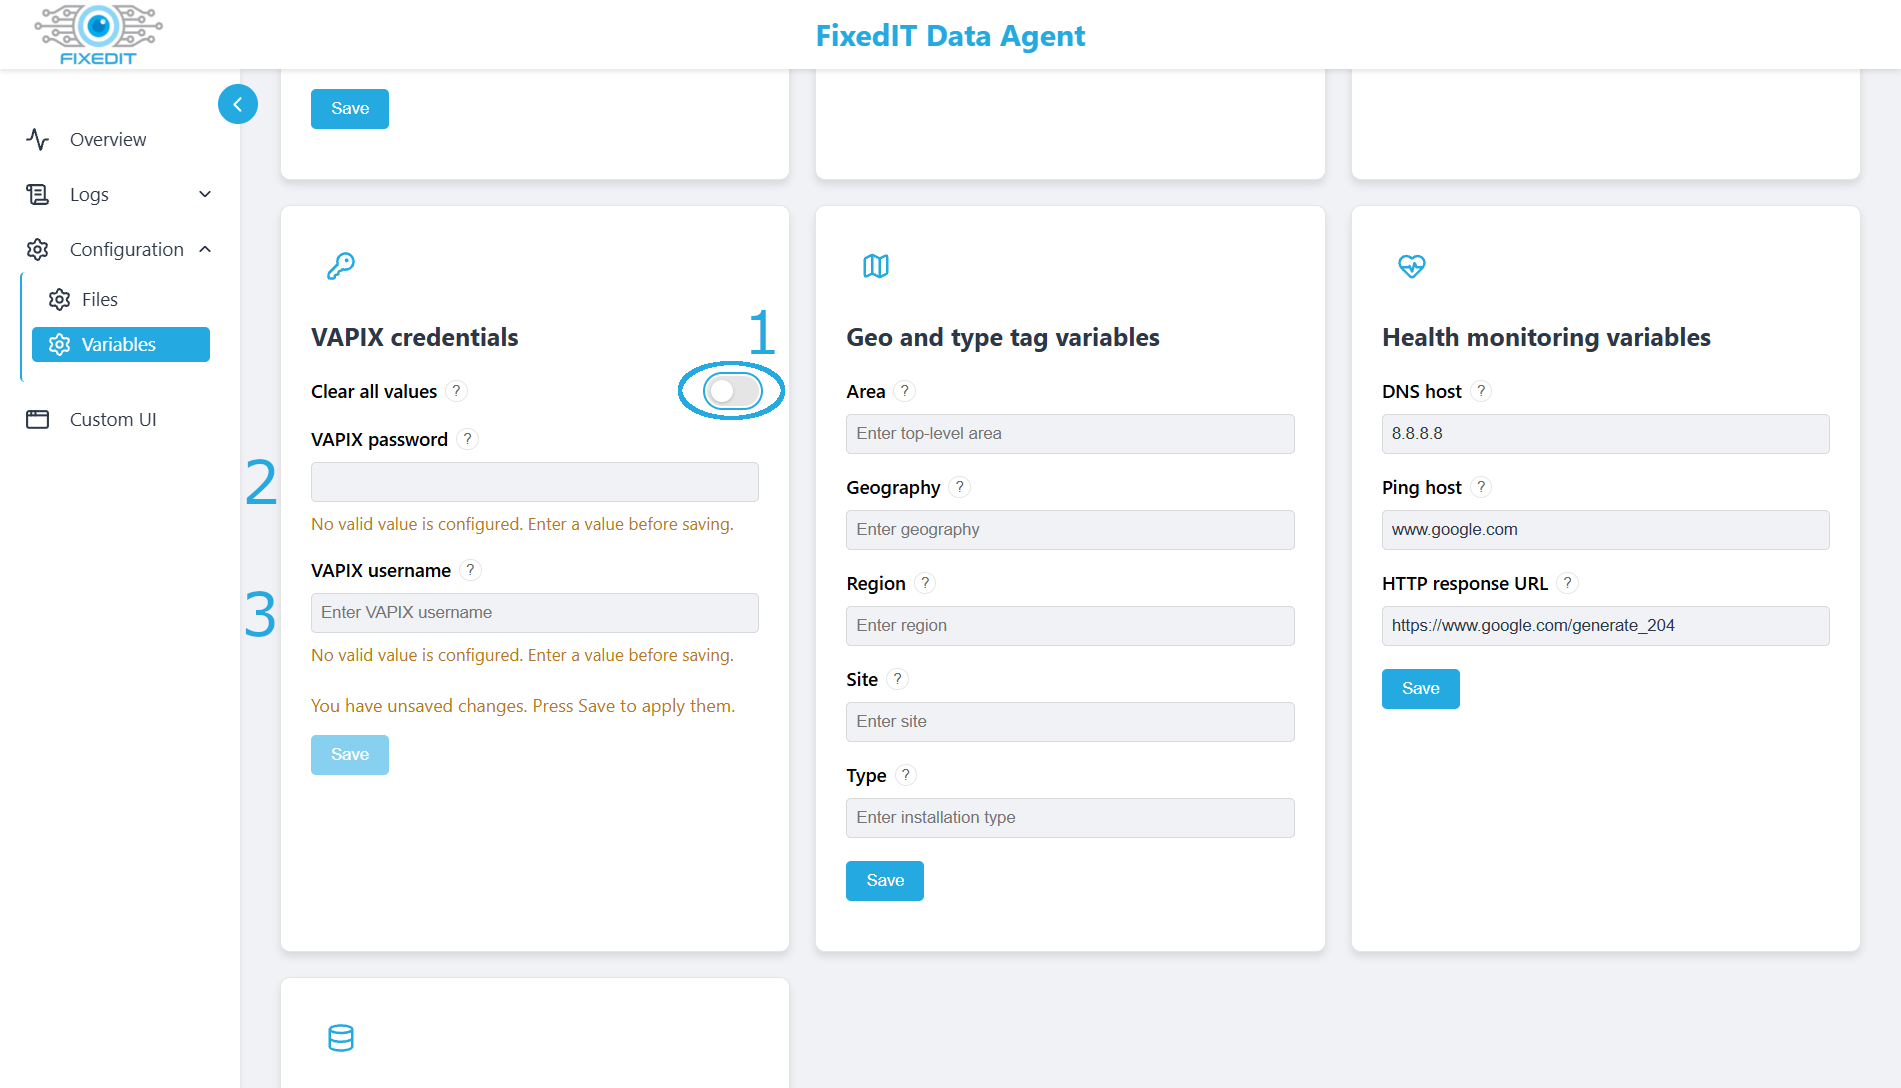
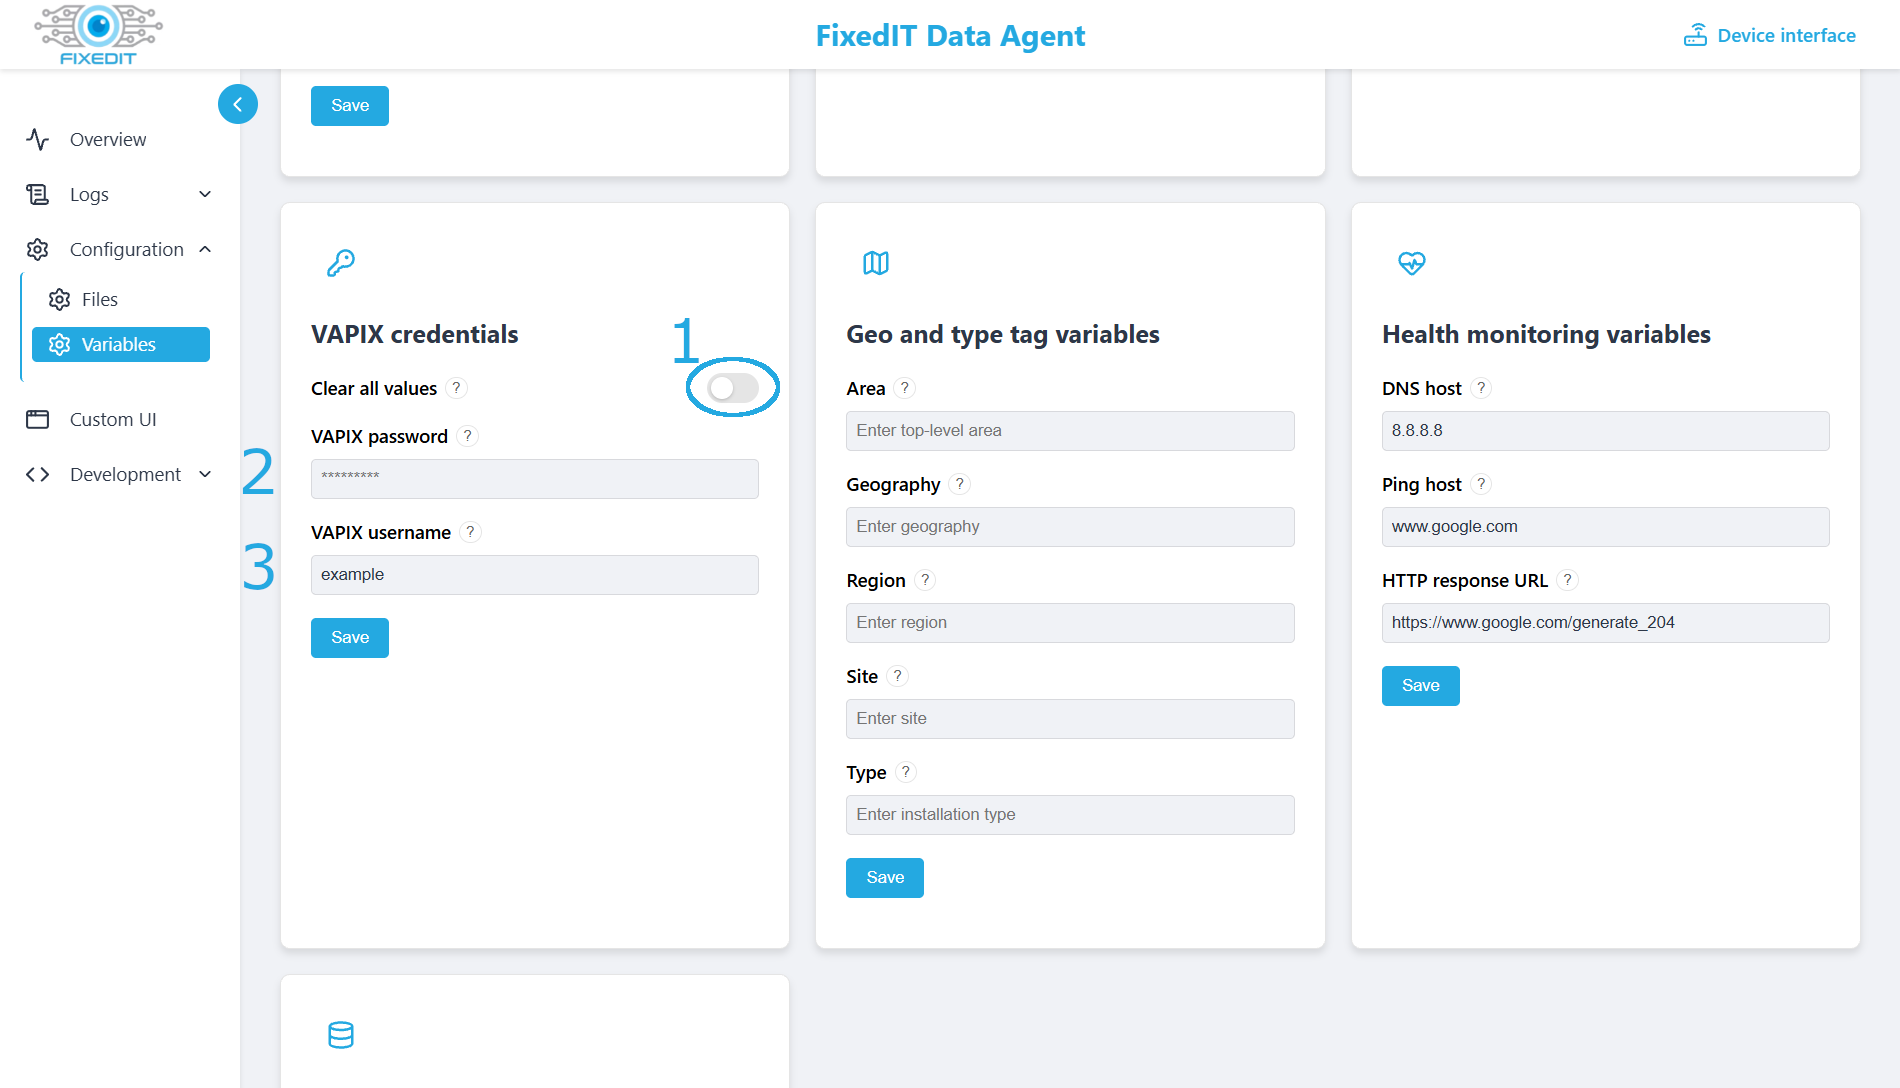
Resolved issues from haziqa's comments on GH. Formatting, swapped for mor accurate picture and text changes.

diff --git a/project-cpu-to-overlay/README.md b/project-cpu-to-overlay/README.md
@@ -12,29 +12,28 @@
 
 1. Disable the bundled configuration files under `Configuration->Files`.
 
-    ![Disable bundled config files](../.images/configuration-page-disable-bundled.png)
+   ![Disable bundled config files](../.images/configuration-page-disable-bundled.png)
 
 2. Upload and enable all `.conf` files under `Configuration->Files` by pressing the "Upload Config" button and then "Enable" next to the uploaded file.
 
-    ![Enable-Configs](.images/config-page.png)
+   ![Enable project config files](.images/config-page.png)
 
 3. Upload `set_overlay_text.sh` by pressing the "Upload helper file" button and mark it as "Make Executable". Leave "Convert to Unix line endings" checked.
 
-    ![Helper-File](.images/helper-file.png)
+   ![Upload Helper File](.images/helper-file.png)
 
-4. Under `Configuration->Variables` select the "Clear all values" slider under the "VAPIX credentials" section and input the username and password of a VAPIX account that has at least operator access.
+4. Under `Configuration->Variables`, turn off the "Clear all values" slider in the "VAPIX credentials" section, enter the username and password of a VAPIX account with at least operator access, and press "Save".
 
-    ![Vapix-Credentials](.images/vapix-credentials.png)
+   ![Fill in Vapix credentials](.images/vapix-credentials.png)
 
-5. Verify that you see blue lines in the `Logs->Pipeline Data` tab with the current CPU usage. By default, the logs are configured to show up every 60 seconds, starting on the next full minute.
+5. Open `Logs->Pipeline Data` and check that a line with the current CPU usage appears once per interval. The interval is `SYNC_INTERVAL_SECONDS` under `Configuration->Variables` (60 seconds by default). The first line can take up to two intervals, because the CPU plugin needs two samples before it can report a percentage.
 
-    ![CPU-Usage](.images/cpu-usage.png)
+   ![Displayed CPU usage logs](.images/cpu-usage.png)
 
-6. Go to the camera's `Video->Overlays` tab and add a new "Linegraph" overlay widget, configure it to use `#D1` as data source. It is currently hard-coded to work with `#D1`.
+6. In the camera's `Video->Overlays` tab, add a "Linegraph" overlay widget and set its data source to `#D1`. The modifier is set in `config_output_overlay.conf`.
 
-    ![Linegraph overlay widget](.images/cpu-overlay.png)
+   ![Linegraph overlay widget](.images/cpu-overlay.png)
 
 ## Files
 
 ## Configuration Details
-
